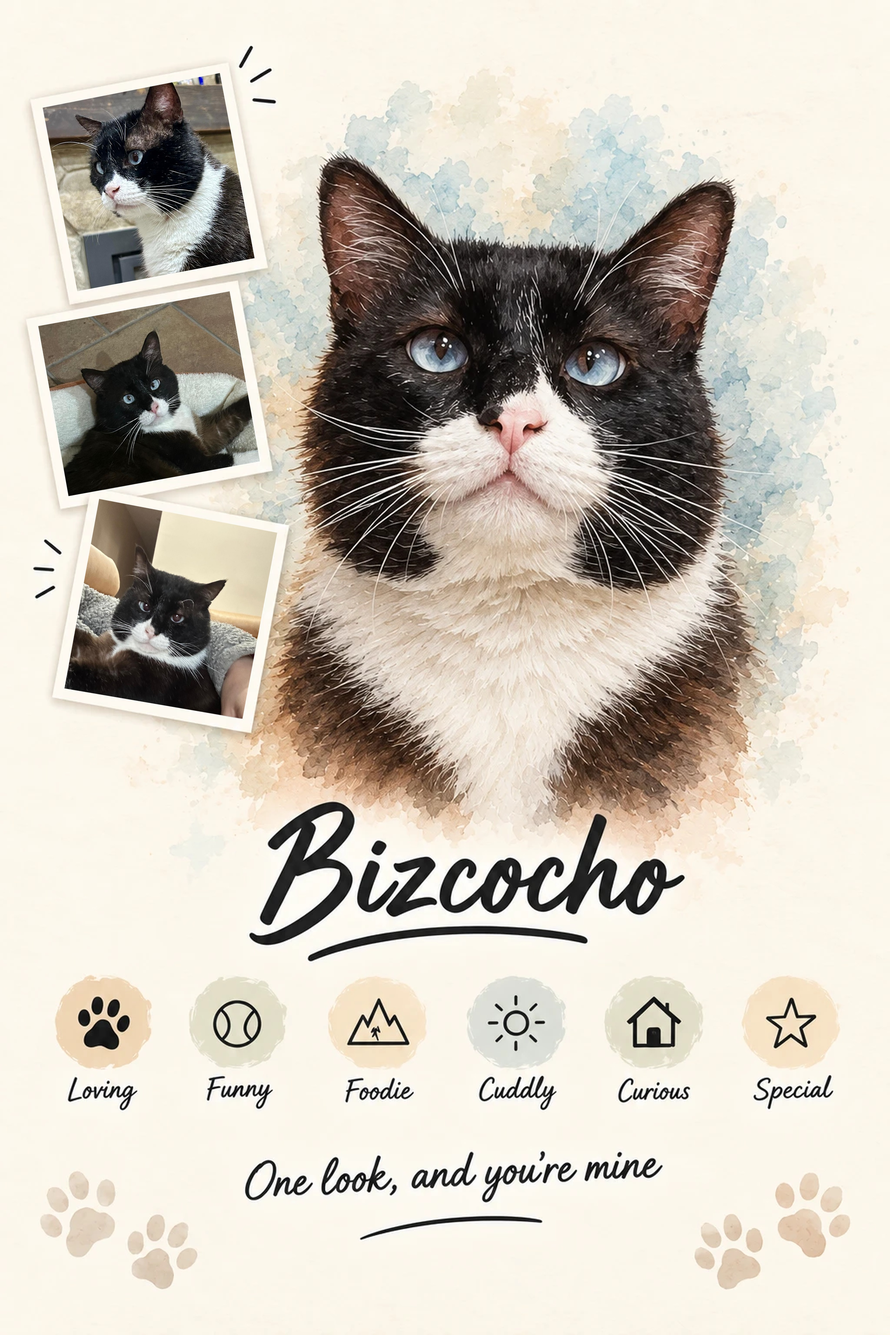
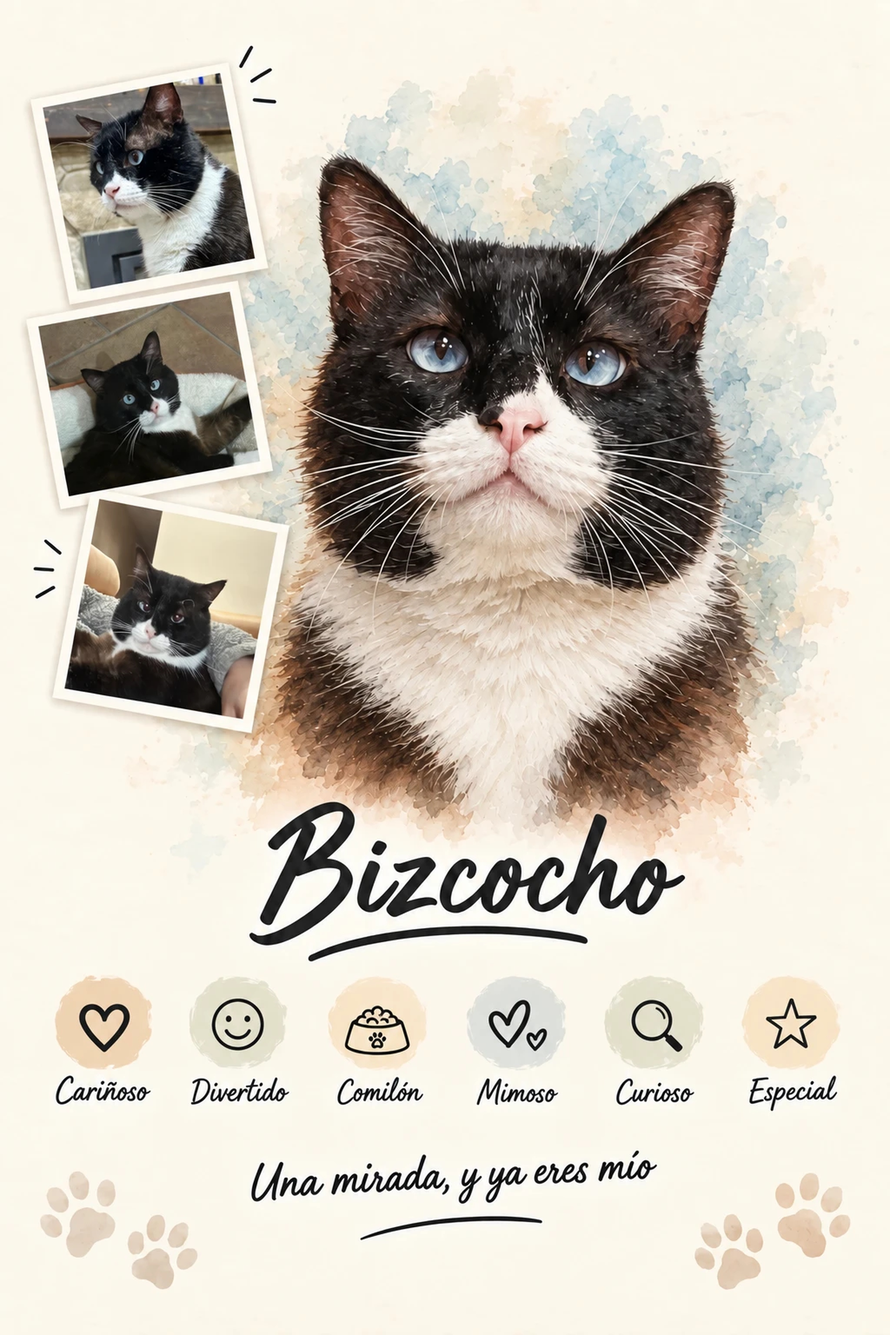
Web: fotos de ficha del estilo Clásico (caso Bizcocho) y tarjetas iguales para la galería de casos reales
Claude-Session: https://claude.ai/code/session_01EXxT3oYALMgVYQXs29BEaV

diff --git a/generador/web/galeria_casos.py b/generador/web/galeria_casos.py
@@ -1,0 +1,72 @@
+"""Tarjetas iguales para la sección "Casos reales" de kivoa.es: sus 4 fotos del móvil → su retrato.
+
+Uso: python3 generador/web/galeria_casos.py  → assets/web/casos/<caso>.jpg (1200×1500, 4:5)
+Para añadir un caso: una línea en CASOS (carpeta, retrato, rótulo, centro de cada foto).
+"""
+import os
+from PIL import Image, ImageDraw, ImageFilter, ImageFont, ImageOps
+
+RAIZ = os.path.abspath(os.path.join(os.path.dirname(__file__), '..', '..'))
+A = lambda *p: os.path.join(RAIZ, 'assets', *p)
+FU = lambda n, s: ImageFont.truetype(os.path.join(RAIZ, 'generador', 'fuentes', n), s)
+W, H = 1200, 1500
+PAPEL, TINTA, GRIS, SALVIA = (246, 242, 236), (44, 51, 47), (80, 86, 85), (63, 81, 71)
+
+# carpeta, retrato, nombre, estilo, centro (fx, fy) de foto-principal y extra-1..3
+CASOS = [
+    ('bizcocho', 'retrato-clasico-es.jpg', 'Bizcocho', 'Clásico', [(.36, .36), (.45, .35), (.45, .3), (.5, .4)]),
+    ('lula', 'retrato-rosa-es.jpg', 'Lula', 'Rosa', [(.5, .3), (.5, .35), (.34, .3), (.63, .45)]),
+    ('miau', 'retrato-lavanda.jpg', 'Miau', 'Lavanda', [(.5, .4), (.5, .4), (.5, .4), (.5, .4)]),
+]
+
+
+def abrir(p):
+    return ImageOps.exif_transpose(Image.open(p)).convert('RGB')
+
+
+def sombra(im, caja, r=16, alfa=70, off=(0, 10)):
+    capa = Image.new('RGBA', im.size, (0, 0, 0, 0))
+    x0, y0, x1, y1 = caja
+    ImageDraw.Draw(capa).rectangle((x0 + off[0], y0 + off[1], x1 + off[0], y1 + off[1]), fill=(40, 30, 20, alfa))
+    im.alpha_composite(capa.filter(ImageFilter.GaussianBlur(r)))
+
+
+def tarjeta(caso, retrato, nombre, estilo, focos):
+    im = Image.new('RGBA', (W, H), PAPEL + (255,))
+    d = ImageDraw.Draw(im)
+    d.text((W / 2, 92), 'SUS 4 FOTOS DEL MÓVIL', font=FU('QuattrocentoSans-Bold.ttf', 26), fill=SALVIA, anchor='ms')
+    fotos = [abrir(A('casos', caso, 'foto-principal.jpg'))] + [abrir(A('casos', caso, f'extra-{i}.jpg')) for i in (1, 2, 3)]
+    lado, g = 245, 20
+    x0 = (W - 4 * lado - 3 * g) / 2
+    for i, (f, foco) in enumerate(zip(fotos, focos)):
+        x = int(x0 + i * (lado + g))
+        sombra(im, (x, 125, x + lado, 125 + lado), r=10, alfa=55, off=(0, 6))
+        im.paste(ImageOps.fit(f, (lado, lado), Image.LANCZOS, centering=foco), (x, 125))
+    d = ImageDraw.Draw(im)
+    ya = 125 + lado + 30  # flecha hacia abajo
+    d.line((W / 2, ya, W / 2, ya + 44), fill=TINTA, width=5)
+    d.polygon([(W / 2 - 16, ya + 36), (W / 2 + 16, ya + 36), (W / 2, ya + 60)], fill=TINTA)
+    ret = abrir(A('casos', caso, retrato))
+    rh = 930
+    rw = int(ret.width * rh / ret.height)
+    rx, ry = (W - rw) // 2, ya + 84
+    sombra(im, (rx, ry, rx + rw, ry + rh), r=20, alfa=85, off=(0, 14))
+    im.paste(ret.resize((rw, rh), Image.LANCZOS), (rx, ry))
+    # rótulo centrado: "Bizcocho · estilo Clásico"
+    txt_n, txt_e = nombre, f'  ·  estilo {estilo}'
+    fn, fe = FU('Trirong-Regular.ttf', 44), FU('Trirong-LightItalic.ttf', 40)
+    wn, we = d.textlength(txt_n, font=fn), d.textlength(txt_e, font=fe)
+    im2 = Image.new('RGBA', (W, H), PAPEL + (255,))
+    im2.alpha_composite(im.crop((0, 0, W, H - 110)), (0, 0))
+    d = ImageDraw.Draw(im2)
+    xs = (W - wn - we) / 2
+    d.text((xs, H - 52), txt_n, font=fn, fill=TINTA, anchor='ls')
+    d.text((xs + wn, H - 52), txt_e, font=fe, fill=GRIS, anchor='ls')
+    out = A('web', 'casos', f'{caso}.jpg')
+    im2.convert('RGB').save(out, quality=88, optimize=True)
+    print(out)
+
+
+if __name__ == '__main__':
+    for c in CASOS:
+        tarjeta(*c)

diff --git a/generador/casos/caso_real.py b/generador/casos/caso_real.py
@@ -22,7 +22,11 @@ RAIZ = os.path.abspath(os.path.join(os.path.dirname(__file__), '..', '..'))
 C = lambda caso, *p: os.path.join(RAIZ, 'assets', 'casos', caso, *p)
 
 # cara en la foto principal / en el retrato (fracciones), y tamaño del recorte de detalle (fracción del ancho)
-FOCO = {'miau': {'foto': (.52, .44, .62), 'retrato': (.53, .30, .48)}}
+FOCO = {'miau': {'foto': (.52, .44, .62), 'retrato': (.53, .30, .48)},
+        'bizcocho': {'foto': (.355, .36, .36), 'retrato': (.575, .31, .45)},
+        'lula': {'foto': (.5, .3, .6), 'retrato': (.53, .27, .5)}}
+NOMBRE_ESTILO = {'clasico': 'Clásico', 'rosa': 'Rosa', 'lavanda': 'Lavanda', 'aventurero': 'Aventurero', 'caballos': 'Caballos'}
+est = lambda e: NOMBRE_ESTILO.get(e, e.capitalize())
 
 
 def abrir(p):
@@ -78,7 +82,7 @@ def fotos_a_retrato(caso, nombre, estilo, salida):
     d = ImageDraw.Draw(im)
     centrado(d, 650, 1580, 'La principal + hasta 3 más', F(SERIF, 58), TINTA)
     centrado(d, 650, 1650, 'Main photo + up to 3 extra', F(ITAL, 42), GRIS)
-    centrado(d, x0 + rw / 2, 1735, f'Caso real · estilo {estilo.capitalize()}', F(ITAL, 40), GRIS)
+    centrado(d, x0 + rw / 2, 1735, f'Caso real · estilo {est(estilo)}', F(ITAL, 40), GRIS)
     im.save(salida, quality=92)
 
 
@@ -98,7 +102,7 @@ def detalle(caso, nombre, estilo, rasgo, salida):
         centrado(d, x + s / 2, 1490, en, F(ITAL, 42), GRIS)
     d = ImageDraw.Draw(im)
     flecha(d, 1130, 1270, 400 + s // 2)
-    centrado(d, W / 2, 1715, f'Caso real · estilo {estilo.capitalize()}', F(ITAL, 40), GRIS)
+    centrado(d, W / 2, 1715, f'Caso real · estilo {est(estilo)}', F(ITAL, 40), GRIS)
     im.save(salida, quality=92)
 
 
@@ -167,7 +171,7 @@ def kit(caso, nombre, estilo, rasgo):
     os.makedirs(out, exist_ok=True)
     p = lambda n: os.path.join(out, f'{estilo}-{n}.jpg')
     antes_despues(C(caso, 'foto-principal.jpg'), C(caso, f'retrato-{estilo}.jpg'), p('1-antes-despues'),
-                  f'Caso real · estilo {estilo.capitalize()}')
+                  f'Caso real · estilo {est(estilo)}')
     fotos_a_retrato(caso, nombre, estilo, p('2-sus-fotos'))
     detalle(caso, nombre, estilo, rasgo, p('3-detalle'))
     marcos(caso, nombre, estilo, p('4-marcos'))
